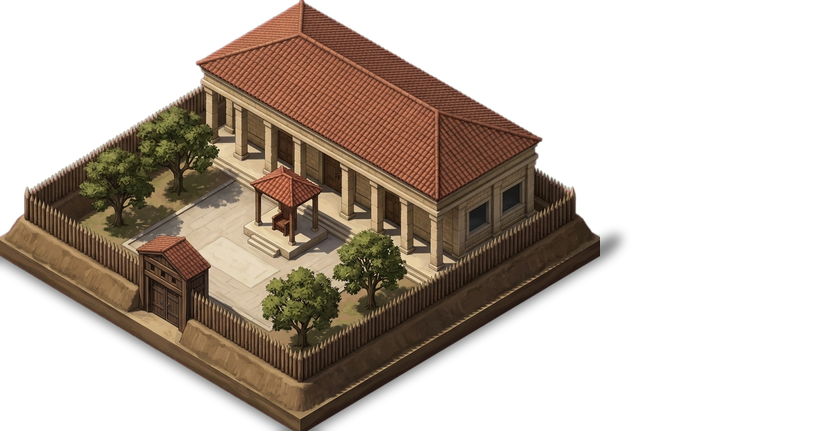
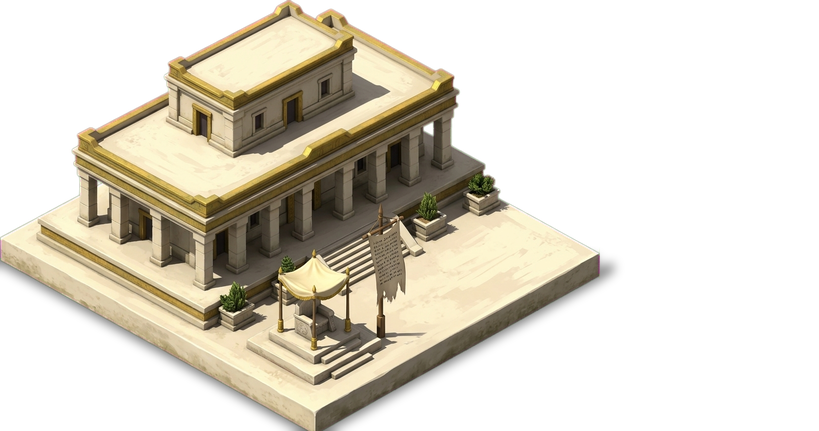
Title of Liberty: the city is a white stone palace, like the other buildings
Blake: "Need a different art object for this. Does not seem to fit the
style of the area." The judge's hall (request 018) was a Roman villa with
a red tile roof among white plaster and limestone buildings. Now the
chief judge's palace (request 020): a colonnaded white palace with gold
trim and an upper storey on a stepped limestone platform, the seat of
judgment under a canopy and the title of liberty beside the stair.
Gemini, two versions shown in the game; Blake chose this one.

Claude-Session: https://claude.ai/code/session_01Q4ES8mgC6R6KD4i9kHrmBw

diff --git a/liberty/ui.js b/liberty/ui.js
@@ -76,7 +76,7 @@ IMG.cartTimber.src = 'assets/cart_timber.png?v=1';
 IMG.cartStone.src = 'assets/cart_stone.png?v=1';
 IMG.cartWork.src = 'assets/cart_loading.png?v=1';
 IMG.unit.src = 'assets/spearman.png?v=13';
-IMG.stronghold.src = 'assets/stronghold.png?v=14';   // the chief judge's hall (018-great-buildings.md)
+IMG.stronghold.src = 'assets/stronghold.png?v=15';   // the chief judge's palace, in the white stone of the other buildings (020-city-palace.md)
 IMG.barracks.src = 'assets/barracks.png?v=13';
 IMG.tower.src = 'assets/tower.png?v=13';
 IMG.storehouse.src = 'assets/storehouse.png?v=13';
@@ -2181,7 +2181,7 @@ IMG.farm.src = 'assets/farm.png?v=13';
   function picOf(e) {
     const pic = e.kind === 'building' && e.team !== 'p' && IMG[pictureOf(e)];
     const own = pic && (ready(pic) ? pic : e.def.side === 'kingmen' ? IMG.lamaniteCamp : pic);   // (a tent without its picture yet shows the camp's)
-    const c = own ? own.src : CAMEO_MAP[(e.kind === 'unit' ? 'train:' : 'build:') + e.type] || (e.type === 'stronghold' && 'assets/cameo_stronghold.png?v=2');
+    const c = own ? own.src : CAMEO_MAP[(e.kind === 'unit' ? 'train:' : 'build:') + e.type] || (e.type === 'stronghold' && 'assets/cameo_stronghold.png?v=3');
     if (c) return `<img class="pic" src="${c}" alt="">`;
     if (DRAWN_AS[e.type]) return `<img class="pic" src="assets/${DRAWN_AS[e.type]}.png?v=1" alt="">`;
     if (e.kind === 'unit' && (e.type === 'lamanite' || e.def.foe)) return `<img class="pic" src="assets/cameo_lamanite.png?v=10" alt="">`;
@@ -2912,7 +2912,7 @@ IMG.farm.src = 'assets/farm.png?v=13';
     const T = TIPS[key] || TIPS.mission;
     const tabs = browse ? `<div class="row tipTabs">${Object.keys(TIPS).map(k => `<button class="btn ${k === key ? 'go' : ''}" data-tips="${k}">${esc(TIPS[k].title.replace(/^Free battle · /, ''))}</button>`).join('')}</div>` : '';
     openDialog(`<div class="dialog tipsCard"><div class="kicker">How to play</div><h2>${esc(T.title)}</h2>${tabs}
-      <ul class="tips">${T.tips.map(([pic, b, t]) => `<li><img src="assets/${pic}.png?v=2" alt=""><div><b>${esc(b)}</b><span>${esc(t)}</span></div></li>`).join('')}</ul>
+      <ul class="tips">${T.tips.map(([pic, b, t]) => `<li><img src="assets/${pic}.png?v=3" alt=""><div><b>${esc(b)}</b><span>${esc(t)}</span></div></li>`).join('')}</ul>
       <div class="row" style="margin-top:14px"><button class="btn go" id="tGot">Got it</button>${browse ? '' : '<button class="btn" id="tNever">Don\'t show again</button>'}</div></div>`);
     $('tGot').onclick = () => { closeDialog(); if (done) done(); };
     if ($('tNever')) $('tNever').onclick = () => { save.tips = save.tips || {}; save.tips[key] = 1; store(); closeDialog(); if (done) done(); };

diff --git a/liberty/index.html b/liberty/index.html
@@ -461,6 +461,6 @@
 <script src="missions.js?v=29"></script>
 <script src="save.js?v=1"></script>
 <script src="scripture.js?v=15"></script>
-<script src="ui.js?v=49"></script>
+<script src="ui.js?v=50"></script>
 </body>
 </html>

diff --git a/liberty/art/requests/020-city-palace.md b/liberty/art/requests/020-city-palace.md
@@ -1,0 +1,35 @@
+# 020 · The city: the chief judge's palace, in white stone
+
+**Status: done.** Made with Gemini through Blake's n8n backup (executions
+13475 and 13476, two billed to the Merit3D Gemini account), with the hall of
+the captains (`hall.png`) as the reference for the look. Two versions were
+painted at once and shown to Blake in the game; he chose the first. It was
+cut out of the magenta, de-spilled at the outline only, scaled to 150 px a
+square of plot (4 × 4) and given the soft cast shadow the other buildings
+have. Button picture made with `mkcameo.py`.
+
+## What it's for
+
+Blake, playing Out of the Wilderness: "Need a different art object for this.
+Does not seem to fit the style of the area." The judge's hall from request
+018 was a Roman-looking villa (red tile roof, tan stone columns, a fenced
+garden on a bank of earth), while every other Nephite building is white
+plaster and pale limestone with flat or thatched roofs on stepped stone
+platforms. Decided with him: a white stone palace.
+
+## The picture
+
+- **`stronghold.png`**, 4 × 4, the palace of the chief judge, the
+  judgment-seat (Alma 50:39), used wherever the Nephites' city stands
+  (Zarahemla, Jershon and Manti in the stories; the city planted with the
+  standard in a skirmish): a broad stepped platform of pale limestone with a
+  wide stair; a colonnaded palace of white plaster with gold trim and a
+  smaller upper storey; at the foot of the stair a stone dais with the seat
+  of judgment under a cream canopy, and beside it the title of liberty on its
+  pole (Alma 46:12–13). Low and wide: grand, but lower than the temple.
+
+Not used: the courtyard version (two wings round an open court with a grand
+stair), which looked closer to the hall of the captains.
+
+The opening page's paintings (request 019) still show the old red-roofed
+hall behind Moroni and on the Story tile.

diff --git a/liberty/art/requests/018-great-buildings.md b/liberty/art/requests/018-great-buildings.md
@@ -25,7 +25,7 @@ one question at a time (`liberty/design/evolution.md`, section 13c).
 All at the game's isometric angle, seen from above at the front corner, the
 plot a diamond twice as wide as tall, light from the upper left.
 
-- **`stronghold.png`**, the chief judge's hall at Zarahemla (Alma 50:39),
+- **`stronghold.png`** (replaced in request 020 by a white stone palace that matches the other buildings), the chief judge's hall at Zarahemla (Alma 50:39),
   4 × 4: a long, low hall of tan stone and dark timber under red tiles, a
   porch of square pillars, a roofed seat of judgment on a dais before it,
   trees, all in a yard behind a bank of earth and pickets. Reference:
